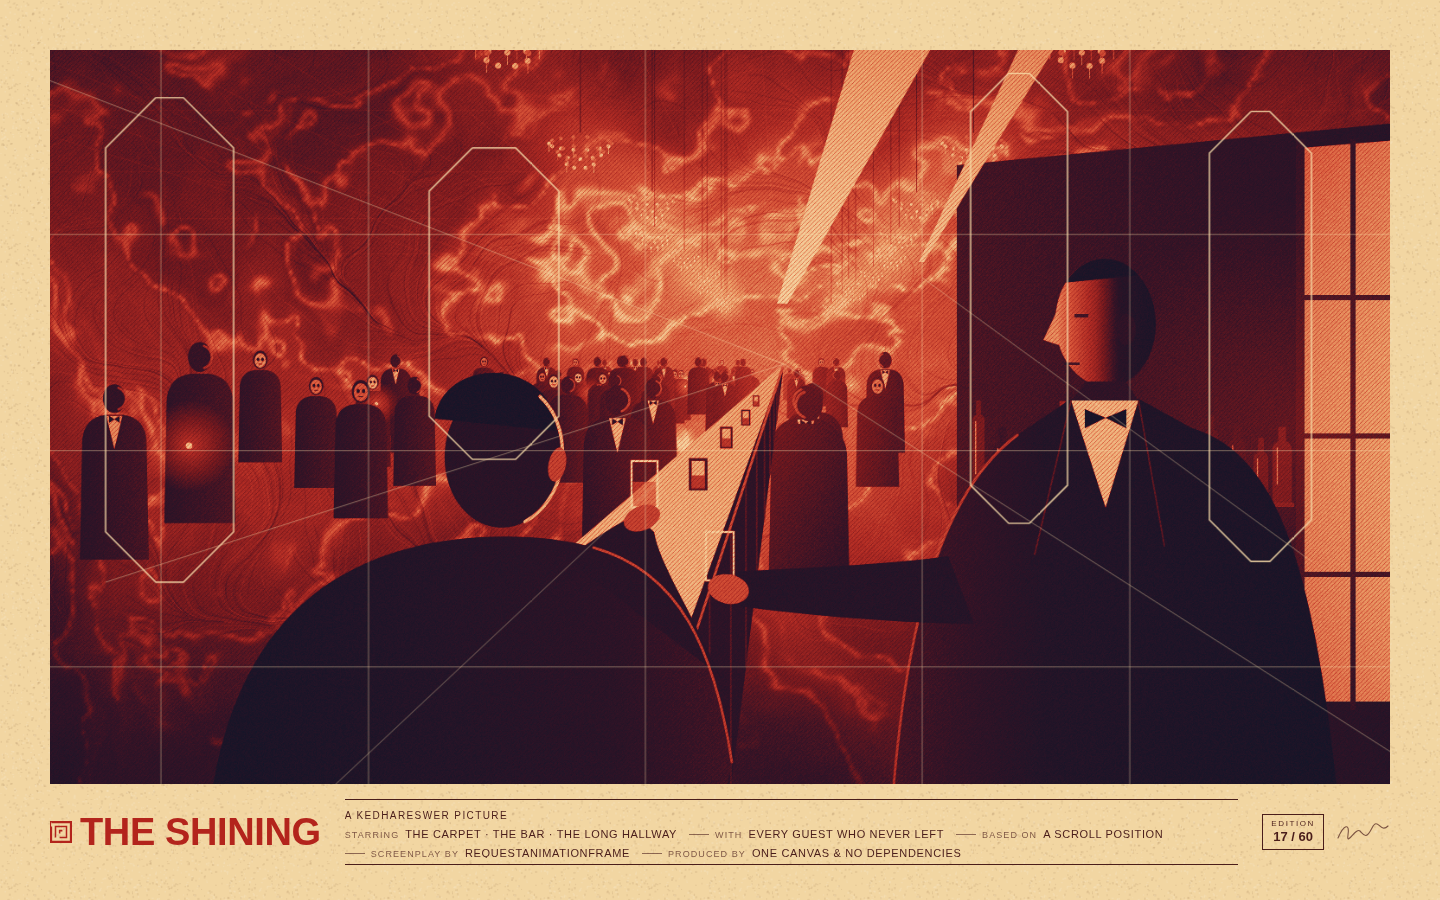
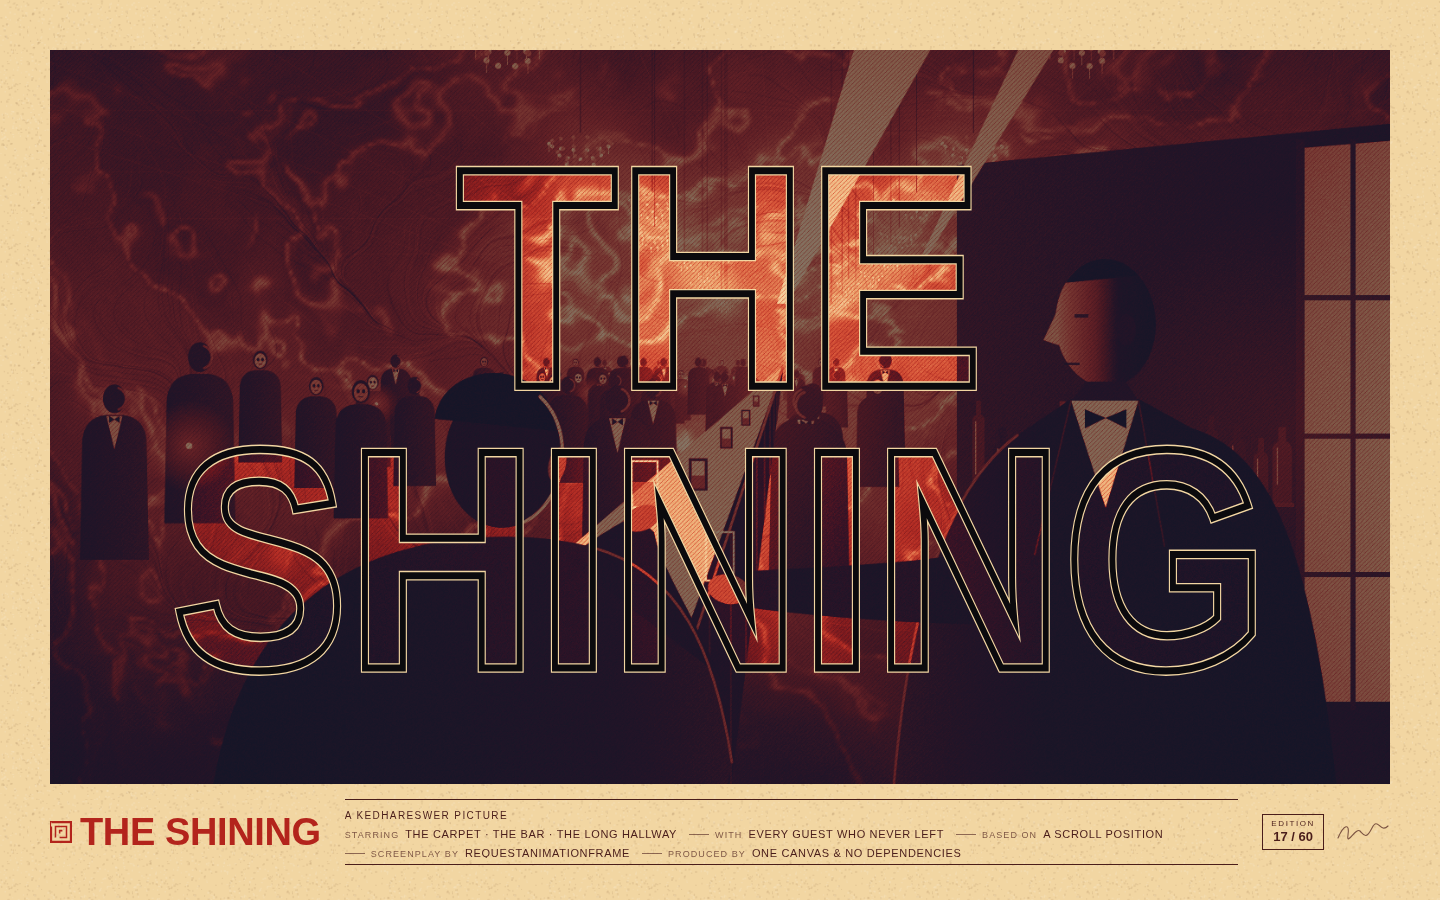
overlook-title-reveal: keep the title, drop the grid
The title now stays for the whole scroll as a black keyline, drawn over
the picture every frame. Once the picture fills the frame, the room
outside the letters dims (palette[0] with the title cut out), so the word
still reads over the finished print. The construction-line overlay is
removed; the zoom is capped at 8% so the keyline never leaves the frame.
New props: outline, outlineWidth, veil (replacing lines).

Claude-Session: https://claude.ai/code/session_01BEzDLHhMWB7ApSDa8EgG1V

diff --git a/components/overlook-title-reveal/overlook-title-reveal.tsx b/components/overlook-title-reveal/overlook-title-reveal.tsx
@@ -7,9 +7,11 @@ import * as React from "react"
  * its title. The picture lives inside the letters: a red duotone ballroom bar,
  * seen only through the glyphs, on a plain sheet of paper. Scroll and the
  * letters swell — the title is dilated outwards, stroke by stroke — until the
- * picture has spread out of the words and fills the sheet. Then the
- * construction lines are drawn over it and the billing block prints in
- * underneath, and the page is a poster.
+ * picture has spread out of the words and fills the sheet. The title never
+ * leaves: its letters stay drawn in a black keyline the whole way, and once
+ * the picture is full the room outside them dims, so the word still reads
+ * over the finished print. Then the billing block prints in underneath, and
+ * the page is a poster.
  *
  * Self-contained: React is the only import. The picture is painted once from
  * numbers on an offscreen 2D canvas — marble walls, chandeliers, a crowd that
@@ -55,8 +57,12 @@ export type OverlookTitleRevealProps = {
   height?: string
   /** Pointer drift of the picture. */
   parallax?: boolean
-  /** Draw the construction lines over the finished poster. */
-  lines?: boolean
+  /** Keyline around the letters, kept over the finished poster. */
+  outline?: string
+  /** Keyline width in px. Default scales with the title. */
+  outlineWidth?: number
+  /** How far the picture outside the letters dims once it is full, 0..1. */
+  veil?: number
   /** Top of the billing block. */
   credit?: string
   /** Label / value pairs, set in the billing block. */
@@ -95,8 +101,9 @@ export function timeline(t: number) {
   return {
     hint: 1 - smoothstep(0, 0.06, p),
     spread: smoothstep(0.05, 0.68, p),
-    zoom: 1 + 0.16 * smoothstep(0.04, 0.68, p),
-    lines: smoothstep(0.7, 0.9, p),
+    // The title fits 88% of the frame, so it may grow 8% and still stay inside it.
+    zoom: 1 + 0.08 * smoothstep(0.04, 0.68, p),
+    veil: smoothstep(0.6, 0.85, p),
     credits: smoothstep(0.74, 0.96, p),
   }
 }
@@ -743,22 +750,6 @@ function paintArt(art: HTMLCanvasElement, palette: string[], seed: number, pictu
   gradientMap(ctx, lut, seed, true)
 }
 
-// ---------------------------------------------------------------------------
-// The construction lines laid over the finished print, in art coordinates.
-
-const octagon = (x: number, y: number, w: number, h: number, c: number) =>
-  "M" + (x + c) + " " + y + "H" + (x + w - c) + "L" + (x + w) + " " + (y + c) + "V" + (y + h - c) +
-  "L" + (x + w - c) + " " + (y + h) + "H" + (x + c) + "L" + x + " " + (y + h - c) + "V" + (y + c) + "Z"
-
-const LINES = [
-  octagon(96, 92, 148, 560, 58),
-  octagon(1096, 64, 112, 520, 44),
-  octagon(1372, 108, 118, 520, 48),
-  octagon(470, 150, 150, 360, 50),
-  "M0 250H1600", "M0 500H1600", "M0 750H1600",
-  "M160 0V1000", "M400 0V1000", "M720 0V1000", "M1040 0V1000", "M1280 0V1000",
-  "M240 1000L880 400", "M96 652L880 400", "M1490 628L1040 300", "M0 60L880 400", "M1600 860L880 400",
-]
 const MAZE = "M1 1H15V15H1V4M4 12V4H12V12H7M7 9V7H9"
 
 function scrollParent(el: HTMLElement | null): HTMLElement | null {
@@ -785,7 +776,9 @@ export default function OverlookTitleReveal({
   scrollLength = 3.2,
   height = "100svh",
   parallax = true,
-  lines = true,
+  outline = "#0b0a0d",
+  outlineWidth,
+  veil = 0.5,
   credit = "A Kedhareswer picture",
   billing = DEFAULT_BILLING,
   edition = "17 / 60",
@@ -796,8 +789,6 @@ export default function OverlookTitleReveal({
   const rootRef = React.useRef<HTMLDivElement>(null)
   const stageRef = React.useRef<HTMLDivElement>(null)
   const canvasRef = React.useRef<HTMLCanvasElement>(null)
-  const frameRef = React.useRef<HTMLDivElement>(null)
-  const svgRef = React.useRef<SVGSVGElement>(null)
   const creditsRef = React.useRef<HTMLDivElement>(null)
   const hintRef = React.useRef<HTMLDivElement>(null)
   const progressRef = React.useRef(0)
@@ -811,9 +802,7 @@ export default function OverlookTitleReveal({
     const root = rootRef.current
     const stage = stageRef.current
     const canvas = canvasRef.current
-    const frameEl = frameRef.current
-    const svg = svgRef.current
-    if (!root || !stage || !canvas || !frameEl) return
+    if (!root || !stage || !canvas) return
     const ctx = canvas.getContext("2d")
     const mask = document.createElement("canvas")
     const mctx = mask.getContext("2d")
@@ -822,7 +811,7 @@ export default function OverlookTitleReveal({
     const reduced = window.matchMedia("(prefers-reduced-motion: reduce)").matches
     const k = Math.max(0.5, Math.min(1, condense))
     const font = (px: number) => "900 " + px.toFixed(2) + "px " + fontFamily
-    const paths = svg ? Array.from(svg.querySelectorAll("path")) : []
+    const shade = palette[0] || "#000000"
 
     let W = 1
     let H = 1
@@ -875,14 +864,6 @@ export default function OverlookTitleReveal({
       ctx.font = font(size)
       const m = ctx.measureText(titleLines.join(""))
       cap = m.actualBoundingBoxAscent || size * 0.72
-      frameEl.style.left = f.x + "px"
-      frameEl.style.top = f.y + "px"
-      frameEl.style.width = f.w + "px"
-      frameEl.style.height = f.h + "px"
-      if (svg) {
-        svg.style.width = fit.w + "px"
-        svg.style.height = fit.h + "px"
-      }
       setLayout((l) =>
         l.margin === pf.margin && l.strip === pf.strip && l.gap === pf.gap ? l : { margin: pf.margin, strip: pf.strip, gap: pf.gap },
       )
@@ -890,7 +871,8 @@ export default function OverlookTitleReveal({
     }
 
     // The title as a shape: filled, and stroked `grow` px fat to dilate it.
-    const titleShape = (c: CanvasRenderingContext2D, zoom: number, grow: number) => {
+    // With `keyline` > 0 it is only stroked, that wide: the letters' outline.
+    const titleShape = (c: CanvasRenderingContext2D, zoom: number, grow: number, keyline = 0) => {
       const f = pf.frame
       const cx = f.x + f.w / 2
       const cy = f.y + f.h / 2
@@ -911,6 +893,13 @@ export default function OverlookTitleReveal({
         c.save()
         c.translate(0, -block / 2 + cap + i * lh)
         c.scale(k, 1)
+        if (keyline > 0) {
+          c.lineJoin = "miter"
+          c.lineWidth = keyline / zoom / Math.sqrt(k)
+          c.strokeText(line, 0, 0)
+          c.restore()
+          return
+        }
         c.fillText(line, 0, 0)
         if (grow > 0.5) {
           // Stroke width is squeezed by the condense too; fatten to keep it round-ish.
@@ -964,13 +953,36 @@ export default function OverlookTitleReveal({
       ctx.setTransform(1, 0, 0, 1, 0, 0)
       ctx.drawImage(mask, 0, 0)
 
-      if (svg) {
-        svg.style.transform = "translate(" + (fit.x + par.x).toFixed(2) + "px," + (fit.y + par.y).toFixed(2) + "px)"
-        svg.style.opacity = T.lines > 0 ? "1" : "0"
-        paths.forEach((p, i) => {
-          const d = clamp01(T.lines * 1.5 - (i / paths.length) * 0.5)
-          p.style.strokeDashoffset = String(1 - d)
-        })
+      // Once the picture is full, dim the room outside the letters so the word
+      // still reads: a shade over the frame with the title punched out of it.
+      const dim = T.veil * clamp01(veil)
+      if (dim > 0.001) {
+        mctx.setTransform(dpr, 0, 0, dpr, 0, 0)
+        mctx.globalCompositeOperation = "source-over"
+        mctx.clearRect(0, 0, W, H)
+        mctx.globalAlpha = dim
+        mctx.fillStyle = shade
+        mctx.fillRect(f.x, f.y, f.w, f.h)
+        mctx.globalAlpha = 1
+        mctx.globalCompositeOperation = "destination-out"
+        mctx.fillStyle = "#000"
+        titleShape(mctx, T.zoom, 0)
+        ctx.drawImage(mask, 0, 0)
+      }
+
+      // The keyline: black, over a hairline of paper so it still shows where
+      // it crosses the darkest parts of the picture. Always on.
+      ctx.setTransform(dpr, 0, 0, dpr, 0, 0)
+      const kw = outlineWidth ?? Math.max(2, size * 0.022)
+      if (kw > 0) {
+        if (T.spread > 0.002) {
+          ctx.strokeStyle = clear ? "rgba(255,255,255,0.85)" : paper
+          ctx.globalAlpha = smoothstep(0, 0.2, T.spread)
+          titleShape(ctx, T.zoom, 0, kw + 2.5)
+          ctx.globalAlpha = 1
+        }
+        ctx.strokeStyle = outline
+        titleShape(ctx, T.zoom, 0, kw)
       }
       const cr = creditsRef.current
       if (cr) {
@@ -1098,7 +1110,7 @@ export default function OverlookTitleReveal({
       }
     }
     // eslint-disable-next-line react-hooks/exhaustive-deps
-  }, [title, image, duotone, paletteKey, paper, accent, fontFamily, condense, seed, parallax, clear])
+  }, [title, image, duotone, paletteKey, paper, accent, outline, outlineWidth, veil, fontFamily, condense, seed, parallax, clear])
 
   // Enter jumps to the finished poster, and back to the bare title.
   const onKey = (e: React.KeyboardEvent) => {
@@ -1138,33 +1150,6 @@ export default function OverlookTitleReveal({
           style={{ width: "100%", height: "100%", maxWidth: "none" }}
         />
 
-        {lines && (
-          <div ref={frameRef} aria-hidden="true" className="pointer-events-none absolute overflow-hidden">
-            <svg
-              ref={svgRef}
-              viewBox={"0 0 " + ART_W + " " + ART_H}
-              preserveAspectRatio="none"
-              className="absolute left-0 top-0 block"
-              style={{ maxWidth: "none", opacity: 0, willChange: "transform" }}
-            >
-              {LINES.map((d, i) => (
-                <path
-                  key={i}
-                  d={d}
-                  pathLength={1}
-                  fill="none"
-                  stroke={palette[palette.length - 1] || "#f7dcaa"}
-                  strokeOpacity={i < 4 ? 0.9 : 0.42}
-                  strokeWidth={i < 4 ? 1.4 : 1}
-                  vectorEffect="non-scaling-stroke"
-                  strokeDasharray="1 1"
-                  strokeDashoffset={1}
-                />
-              ))}
-            </svg>
-          </div>
-        )}
-        {!lines && <div ref={frameRef} aria-hidden="true" className="pointer-events-none absolute" />}
 
         <div
           ref={hintRef}

diff --git a/components/overlook-title-reveal/README.md b/components/overlook-title-reveal/README.md
@@ -4,8 +4,10 @@ A screen-printed film poster that starts as nothing but its title. The picture
 lives only inside the letters: a red duotone ballroom bar seen through the
 glyphs, on a plain sheet of paper. Scroll, and the letters swell. The title is
 dilated outwards stroke by stroke, with a thin red rim riding its edge, until
-the picture has spread out of the words and fills the sheet. Then construction
-lines are drawn over it, the billing block prints in underneath, and the page is
+the picture has spread out of the words and fills the sheet. The title never
+goes away. Its letters keep a black keyline the whole way through, and once the
+picture is full the room outside them dims, so you can still read the word over
+the finished print. Then the billing block prints in underneath, and the page is
 a poster.
 
 **No dependencies.** React is the only import. There is no CSS file, font, image
@@ -19,10 +21,11 @@ prints in two inks. Pass `image` to reveal your own picture instead.
 ```
 scroll   what happens
 -------  ------------------------------------------------------------
-0        the bare title on paper, the picture showing through the letters
-0.05     the letters start to swell; a thin accent rim rides their edge
-0.68     the picture fills the frame
-0.70     construction lines draw in over it (octagons, grid, sight lines)
+0        the bare title on paper, black keyline, picture inside the letters
+0.05     the letters start to swell; a thin accent rim rides their edge,
+         the keyline stays on the original letter shapes
+0.60     the picture outside the letters starts to dim
+0.68     the picture fills the frame; the title still reads in its keyline
 0.74     the billing block prints in under the frame
 1        a finished poster
 ```
@@ -62,7 +65,7 @@ content after it.
 | `title` | `"THE SHINING"` | `\n` forces breaks. Otherwise it picks the word grouping that sets largest (so it breaks to two lines in portrait). |
 | `image` | none | Your own picture, cover-fit. With no `image`, it paints the ballroom. |
 | `duotone` | `true` | Gradient-map `image` through `palette`. This needs the host to send CORS headers; without them the picture is shown as it is. |
-| `palette` | 7 stops, navy → red → cream | Hex, 2 to 8 stops, shadow to highlight. The last stop also colours the construction lines. |
+| `palette` | 7 stops, navy → red → cream | Hex, 2 to 8 stops, shadow to highlight. The first stop is also the dimming colour. |
 | `paper` | `"#f2d6a2"` | The sheet, with a little tooth. `"transparent"` lets the page show through, and the text then uses `--color-foreground`. |
 | `ink` | `"#4a1d1a"` | Billing text and the scroll hint. |
 | `accent` | `"#b3241c"` | The small title, the maze mark, and the rim on the swelling letters. |
@@ -72,7 +75,9 @@ content after it.
 | `scrollLength` | `3.2` | A multiple of `height`. |
 | `height` | `"100svh"` | The stage. **Must be a definite length.** |
 | `parallax` | `true` | Pointer drift and idle drift. |
-| `lines` | `true` | The construction lines on the finished poster. |
+| `outline` | `"#0b0a0d"` | The keyline around the letters. It is always drawn. Once the picture spreads, a hairline of `paper` sits under it so it still shows over the darkest parts of the picture. |
+| `outlineWidth` | scales with the title | Width in px. `0` turns the keyline off. |
+| `veil` | `0.5` | How much the picture outside the letters dims once it fills the frame, from 0 to 1. `0` leaves it undimmed. |
 | `credit` | `"A Kedhareswer picture"` | The top line of the billing. |
 | `billing` | a parody block | `[label, value]` pairs. |
 | `edition` | `"17 / 60"` | The print-run box. It is hidden below `sm`. |
@@ -91,6 +96,12 @@ content after it.
   shape masks the picture (`source-in` on a second canvas). At full spread the
   stroke is wider than the frame's diagonal, so the last frame is a plain
   rectangle and nothing snaps.
+- **The title stays.** The keyline is stroked from the undilated title every
+  frame, after the picture. The dim is a `palette[0]` sheet over the frame
+  with the title cut out of it (`destination-out`), so inside the letters the
+  picture stays at full strength.
+- The title is fitted to 88% of the frame and grows at most 8% while
+  scrolling, so its keyline never runs off the edge.
 - The picture is painted once, about 100 ms after mount, so the title appears
   immediately in solid accent. It is repainted only when the palette, seed or
   image changes.
@@ -110,7 +121,7 @@ content after it.
 ## Credit
 
 The art direction is a homage to screen-printed alternative film posters: a
-red duotone illustration on cream stock, thin construction geometry and a
+red duotone illustration on cream stock, a keylined title and a
 billing block. The scene, its figures, the geometry and all the code are
 original and procedural. No film stills, poster art, real names, logos or
 rating marks are used.
